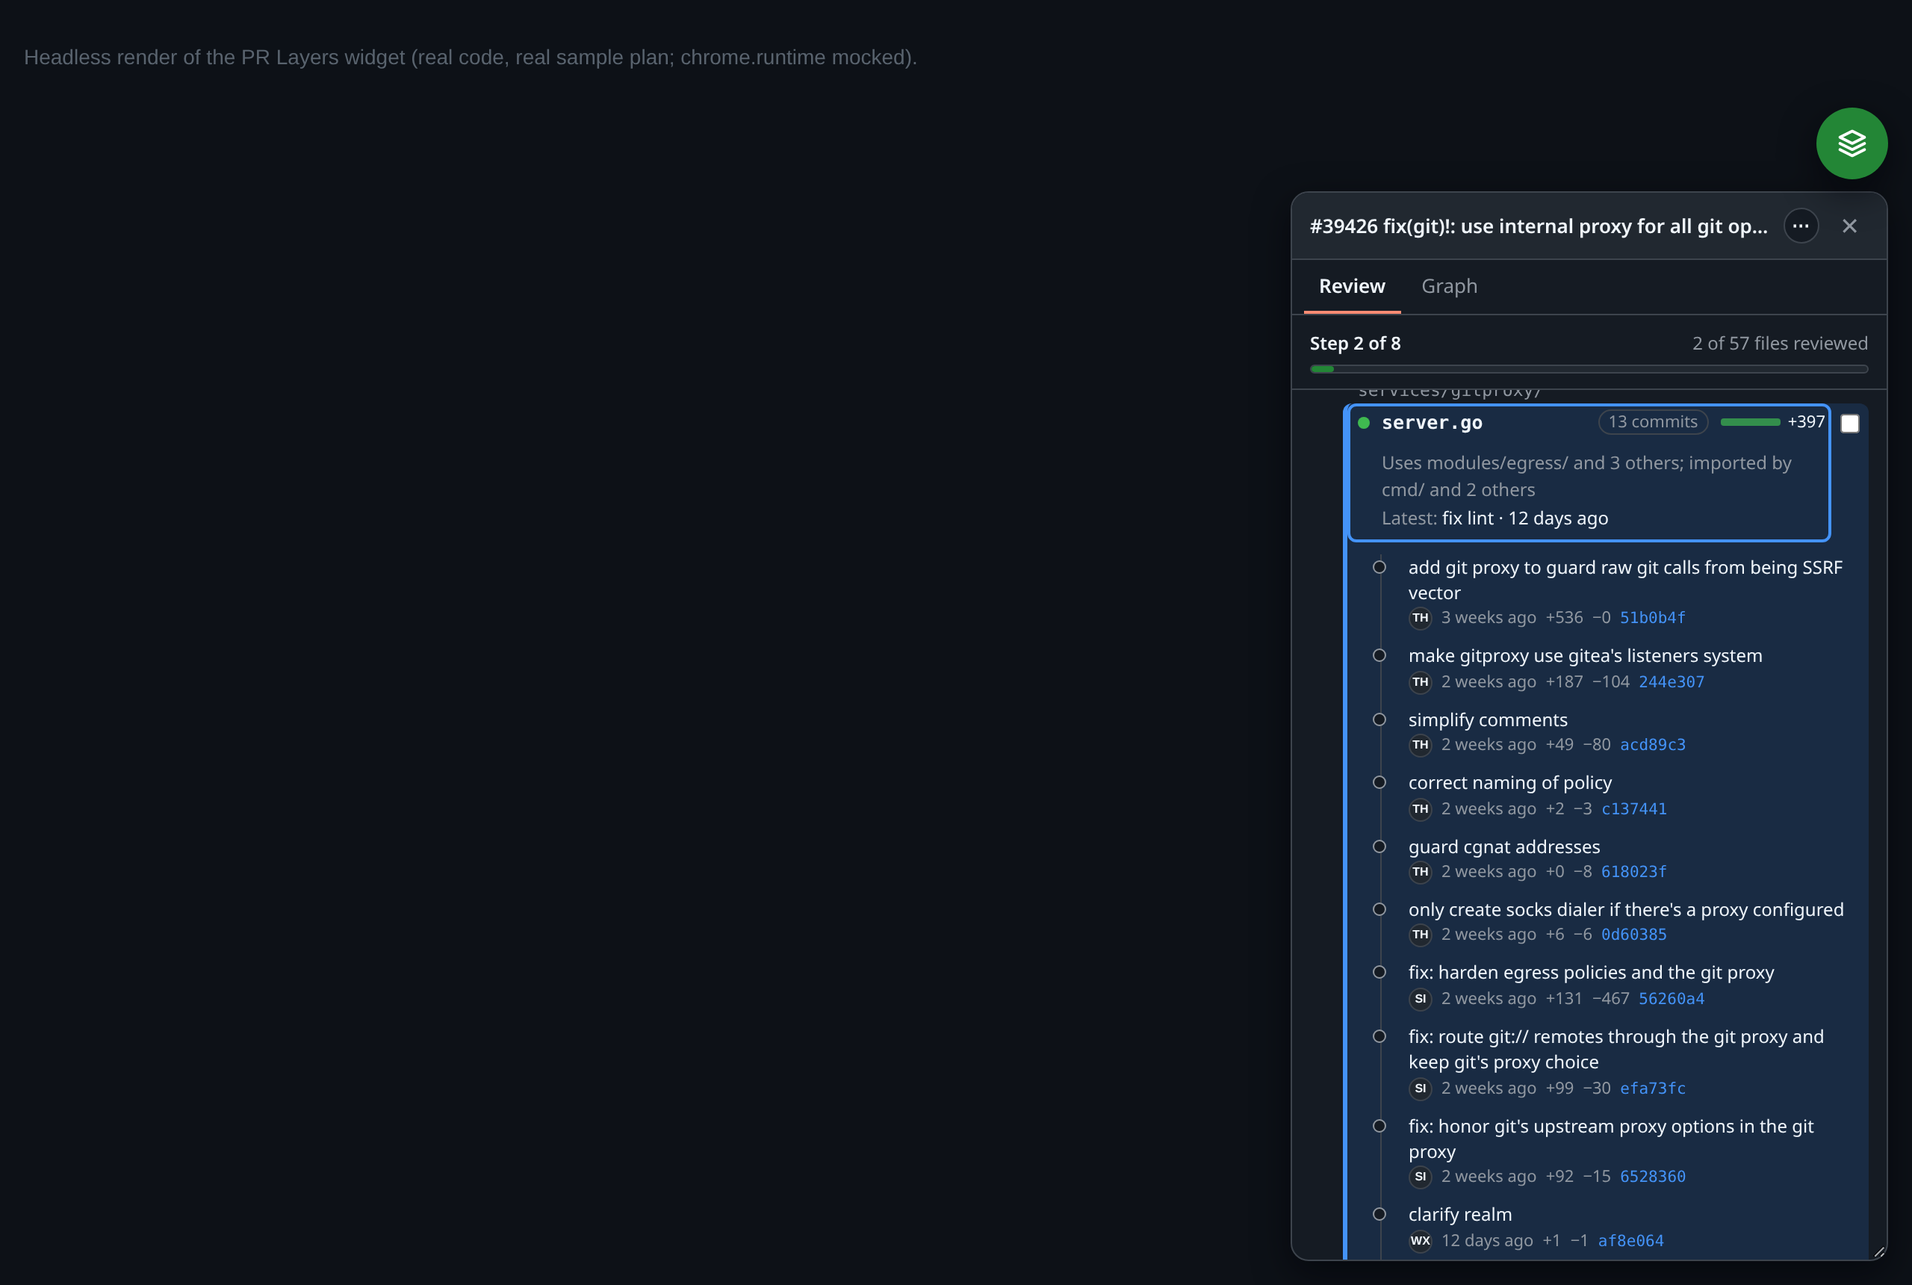
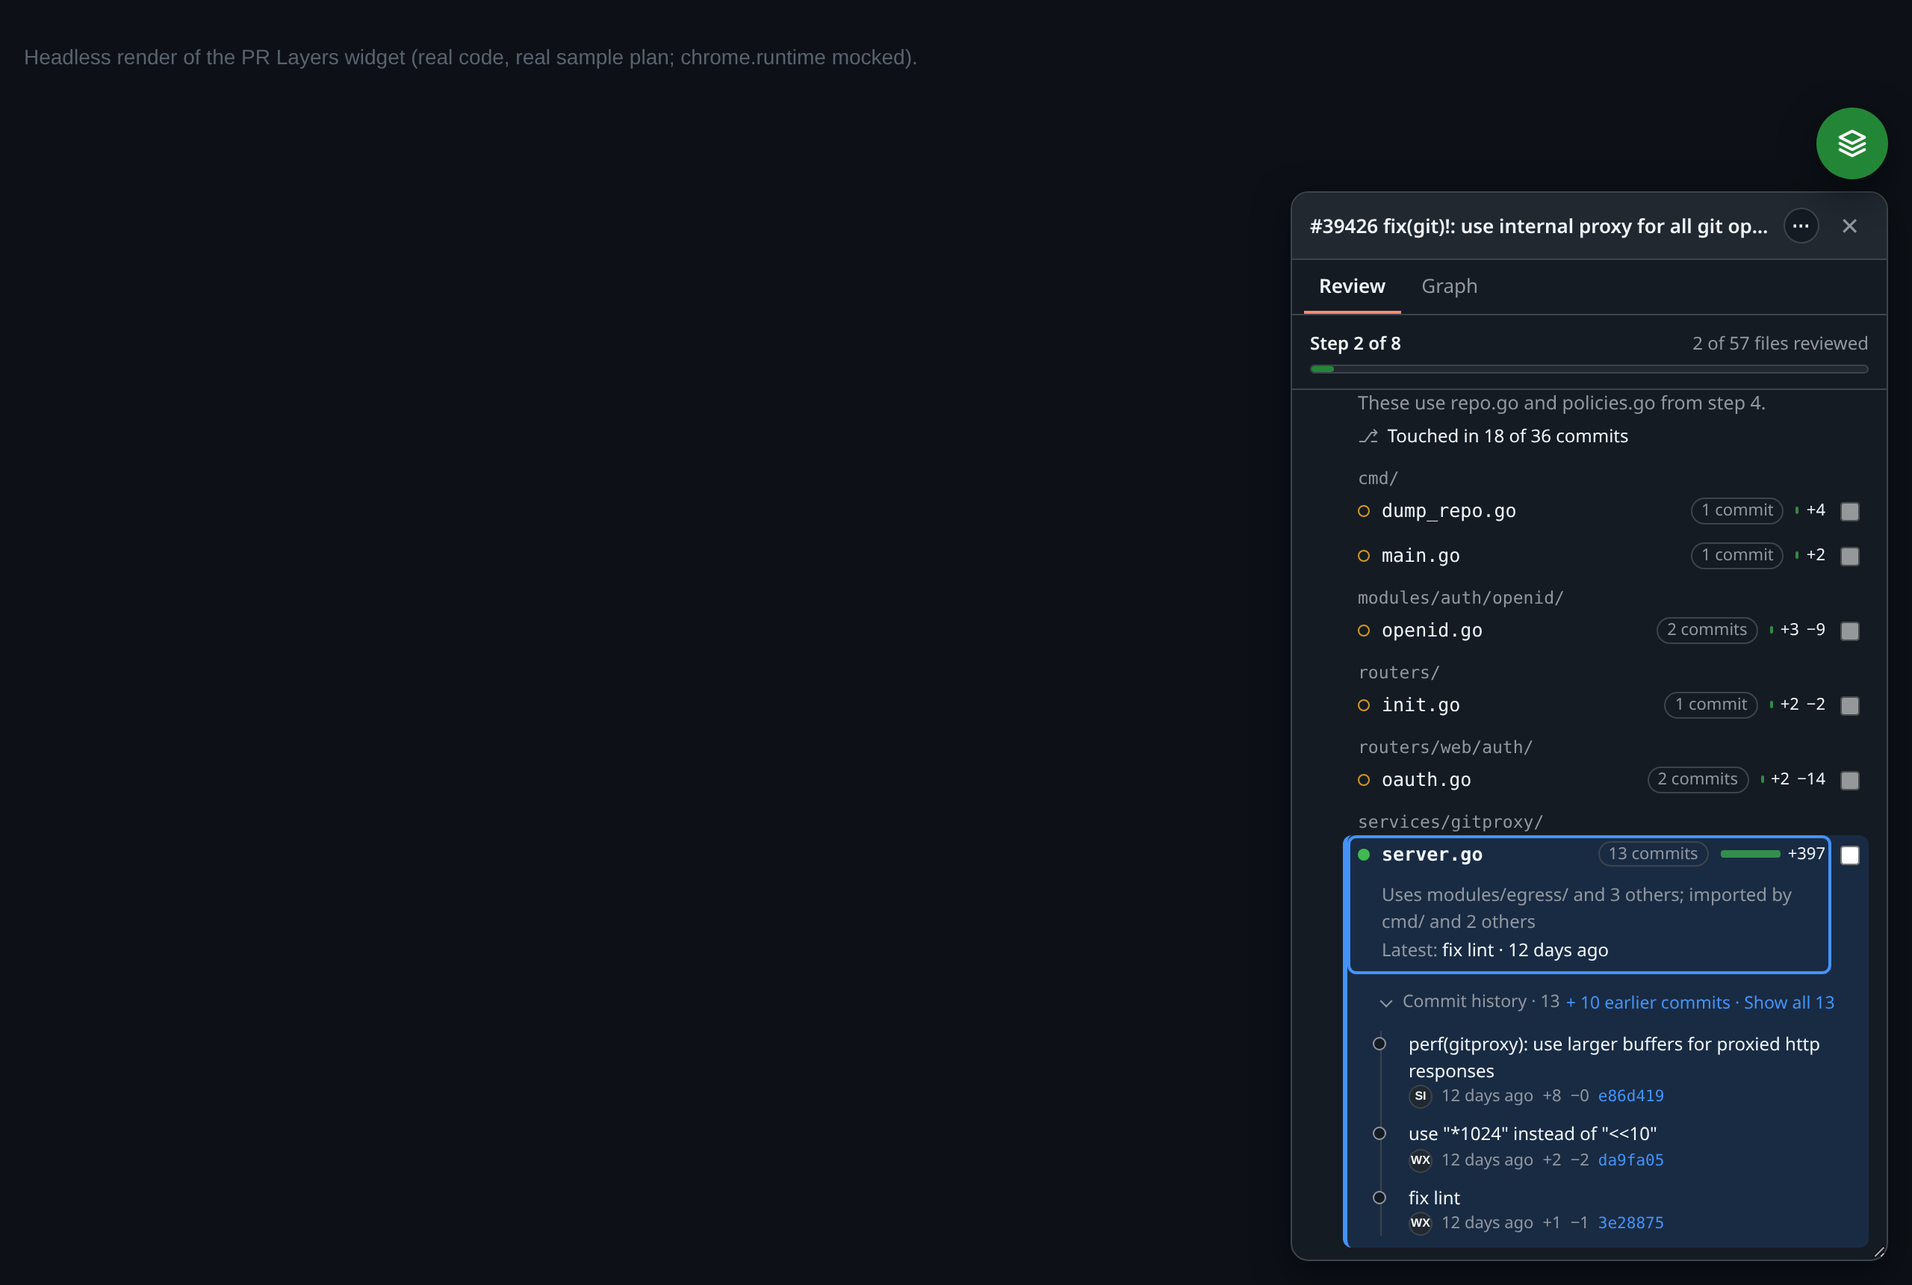
v0.5.2: collapsible commit timeline, latest 3 commits
- Selected file shows a 'Commit history · N' toggle (aria-expanded/controls),
  closed by default; Latest line stays visible. Expanded state is a global
  session pref (chrome.storage.session via the worker).
- Expanded shows the 3 most recent commits (oldest -> newest among them) with
  '+ K earlier commits · Show all N' / 'Show fewer' inline.
- Toggle never navigates; n/j/k keep working.
- Overflow check now covers collapsed, expanded and show-all states (36 cases).
- DOM tests, README, renders updated.

Changed region(s): [[0.6875, 0.3081, 1.0, 0.986]]

diff --git a/test/widget-dom.test.ts b/test/widget-dom.test.ts
@@ -483,6 +483,20 @@ describe("Widget (DOM)", () => {
     expect(s.querySelectorAll(".step.open .sdots i.on")).toHaveLength(3);
     expect(s.querySelector(".tl")).toBeNull(); // only for the selected file
     (a as HTMLButtonElement).click();
+    // collapsed by default: a toggle row, Latest stays visible, no commits listed
+    const tog = s.querySelector("li.file.sel .tltog") as HTMLButtonElement;
+    expect(tog.textContent).toContain("Commit history · 3");
+    expect(tog.getAttribute("aria-expanded")).toBe("false");
+    expect(tog.getAttribute("aria-controls")).toBe("prl-tl");
+    expect(s.querySelector("#prl-tl")!.hasAttribute("hidden")).toBe(true);
+    expect(s.querySelectorAll(".tl .tc")).toHaveLength(0);
+    expect(s.querySelector("li.file.sel .latest")).not.toBeNull();
+    const jumps = calls.filter((c) => c.type === "graph:jump").length;
+    tog.click();
+    expect(prefs.storyOpen).toBe(true);
+    expect(s.querySelector("li.file.sel .tltog")!.getAttribute("aria-expanded")).toBe("true");
+    expect(s.querySelector(".tlmore")).toBeNull(); // <= 3 commits: no show-all
+    expect(calls.filter((c) => c.type === "graph:jump").length).toBe(jumps);
     const items = [...s.querySelectorAll(".tl .tc")];
     expect(items.map((i) => i.querySelector(".tmsg")!.textContent)).toEqual(["feat: add a", "Address review comments", "refactor: rename"]);
     expect(items[2].classList.contains("newest")).toBe(true);
@@ -541,8 +555,50 @@ describe("Widget (DOM)", () => {
     w.loadDemo(false);
     expect(s.querySelector(".step.open .story")!.textContent).toMatch(/Touched in 1 of 5 commits/);
     w.select("tests/test_telemetry/test_runtime.py");
+    expect(s.querySelectorAll(".tl .tc")).toHaveLength(0); // collapsed by default
+    (s.querySelector("li.file.sel .tltog") as HTMLButtonElement).click();
     expect(s.querySelectorAll(".tl .tc")).toHaveLength(3);
     expect(calls.some((c) => c.type === "history:get")).toBe(false);
     replies["auth:status"] = () => ({ method: "pat", login: "yash" });
+  });
+
+  it("timeline: latest 3 by default when expanded, Show all / Show fewer inline, state kept across files, toggle doesn't navigate or break j/k/n", async () => {
+    const commits = Array.from({ length: 6 }, (_, i) => ({ sha: `sha${i}xxxxx`, message: `commit ${i}`, initials: "YV", date: `2026-10-0${i + 1}T00:00:00Z` }));
+    history = {
+      version: 1, totalCommits: 6, commits,
+      files: { "src/a.ts": commits.map((_, c) => ({ c, additions: 1, deletions: 0 })), "src/ui/b.ts": [{ c: 1, additions: 1, deletions: 0 }, { c: 5, additions: 1, deletions: 0 }], "src/ui/c.ts": [] },
+      notes: [],
+    };
+    prefs.storyOpen = true; // session pref: expanded
+    const w = new Widget();
+    await w.mount();
+    w.setPr({ owner: "o", repo: "r", number: 7 });
+    w.toggle("bubble");
+    const s = shadowOf();
+    await vi.waitFor(() => expect(s.querySelector(".fbtn .cm")).not.toBeNull());
+    w.select("src/a.ts");
+    const msgs = () => [...s.querySelectorAll(".tl .tc .tmsg")].map((m) => m.textContent);
+    expect(msgs()).toEqual(["commit 3", "commit 4", "commit 5"]);
+    expect(s.querySelector(".tl .tc.newest .tmsg")!.textContent).toBe("commit 5");
+    const more = s.querySelector(".tlmore") as HTMLButtonElement;
+    expect(more.textContent).toBe("+ 3 earlier commits · Show all 6");
+    more.click();
+    expect(msgs()).toEqual(["commit 0", "commit 1", "commit 2", "commit 3", "commit 4", "commit 5"]);
+    expect(s.querySelector(".tlmore")!.textContent).toBe("Show fewer");
+    (s.querySelector(".tlmore") as HTMLButtonElement).click();
+    expect(msgs()).toHaveLength(3);
+    // Enter/Space on the toggle are plain button activations; n/j/k still work from it
+    const tog = s.querySelector("li.file.sel .tltog") as HTMLButtonElement;
+    tog.focus();
+    tog.dispatchEvent(new KeyboardEvent("keydown", { key: "j", bubbles: true, composed: true }));
+    expect(s.querySelector('.fbtn[aria-current="true"]')!.getAttribute("data-path")).toBe("src/ui/b.ts");
+    // still expanded on the next file (global pref), showing its 2 commits without show-all
+    expect(s.querySelector("li.file.sel .tltog")!.getAttribute("aria-expanded")).toBe("true");
+    expect(msgs()).toEqual(["commit 1", "commit 5"]);
+    expect(s.querySelector(".tlmore")).toBeNull();
+    (s.querySelector("li.file.sel .tltog") as HTMLButtonElement).click();
+    expect(prefs.storyOpen).toBe(false);
+    expect(s.querySelectorAll(".tl .tc")).toHaveLength(0);
+    history = ONE;
   });
 });

diff --git a/src/content/review-view.ts b/src/content/review-view.ts
@@ -15,6 +15,12 @@ export interface ReviewHandlers {
   /** Link for a commit on github.com. */
   commitUrl?: (sha: string) => string;
   now?: number;
+  /** Selected file's commit timeline expanded (session pref, default closed). */
+  storyOpen?: boolean;
+  /** Show all of the selected file's commits instead of the latest 3. */
+  storyAll?: boolean;
+  onToggleStory?(open: boolean): void;
+  onToggleStoryAll?(all: boolean): void;
   onSelect(path: string): void;
   onToggleFile(file: LayerFile, reviewed: boolean): void;
   onToggleStep(layer: Layer, reviewed: boolean): void;
@@ -63,11 +69,43 @@ function stepStory(hist: CommitHistory, paths: string[]): HTMLElement {
   return line;
 }
 
-/** Mini timeline of one file's commits, oldest -> newest. */
+/** Commits shown in the timeline before "Show all". */
+export const TIMELINE_LIMIT = 3;
+
+/** Collapsible mini timeline of one file's commits, oldest -> newest (latest 3 unless "Show all"). */
 function timeline(hist: CommitHistory, f: LayerFile & { name: string }, h: ReviewHandlers): HTMLElement {
   const story = fileStory(hist, f.path);
-  const ol = el("ol", { class: "tl", "aria-label": `Commits that changed ${f.name}, oldest first` });
-  for (const t of story.touches) {
+  const n = story.touches.length;
+  const open = !!h.storyOpen;
+  const toggle = el(
+    "button",
+    { class: "tltog", type: "button", "aria-expanded": String(open), "aria-controls": "prl-tl", title: open ? "Hide commit history" : "Show commit history" },
+    el("span", { class: "tlchev", "aria-hidden": "true" }),
+    `Commit history · ${n}`,
+  );
+  toggle.addEventListener("click", (e) => {
+    e.stopPropagation();
+    h.onToggleStory?.(!open);
+  });
+  const wrap = el("div", { class: "tlwrap" + (open ? " open" : "") }, toggle);
+  const ol = el("ol", { class: "tl", id: "prl-tl", "aria-label": `Commits that changed ${f.name}, oldest first` });
+  if (!open) {
+    ol.hidden = true;
+    wrap.append(ol);
+    return wrap;
+  }
+  const all = !!h.storyAll || n <= TIMELINE_LIMIT;
+  const shown = all ? story.touches : story.touches.slice(n - TIMELINE_LIMIT);
+  if (n > TIMELINE_LIMIT) {
+    const k = n - TIMELINE_LIMIT;
+    const more = el("button", { class: "tlmore", type: "button", "aria-controls": "prl-tl", "aria-expanded": String(all) }, all ? "Show fewer" : `+ ${k} earlier commit${k === 1 ? "" : "s"} · Show all ${n}`);
+    more.addEventListener("click", (e) => {
+      e.stopPropagation();
+      h.onToggleStoryAll?.(!all);
+    });
+    wrap.append(more);
+  }
+  for (const t of shown) {
     const c = t.commit;
     const who = c.name ?? c.login ?? "unknown author";
     const meta = el(
@@ -85,7 +123,8 @@ function timeline(hist: CommitHistory, f: LayerFile & { name: string }, h: Revie
     if (t.as) meta.append(chip(`as ${t.as.slice(t.as.lastIndexOf("/") + 1)}`, `This file was ${t.as} in this commit`, "plain"));
     ol.append(el("li", { class: "tc" + (t.newest ? " newest" : "") }, el("div", { class: "tmsg", title: c.message }, c.message), meta));
   }
-  return el("div", { class: "tlwrap" }, ol);
+  wrap.append(ol);
+  return wrap;
 }
 
 export function renderReview(plan: LayerPlan, state: ReviewState, h: ReviewHandlers): HTMLElement {

diff --git a/src/content/widget.ts b/src/content/widget.ts
@@ -101,6 +101,9 @@ export class Widget {
   private history: CommitHistory | null = null;
   private historyKey = "";
   private historyNote: string | null = null;
+  /** Timeline expanded (session pref, default closed) / showing all commits (this selection only). */
+  private storyOpen = false;
+  private storyAll = false;
   private demo = false;
   private auth: AuthStatus | null = null;
   private busy = false;
@@ -510,6 +513,19 @@ export class Widget {
         selected: this.selected,
         unsynced: this.unsynced,
         history: this.history,
+        storyOpen: this.storyOpen,
+        storyAll: this.storyAll,
+        onToggleStory: (open) => {
+          this.storyOpen = open;
+          void setPref("storyOpen", open);
+          this.renderAll();
+          this.focusIn("li.file.sel .tltog");
+        },
+        onToggleStoryAll: (all) => {
+          this.storyAll = all;
+          this.renderAll();
+          this.focusIn("li.file.sel .tlmore");
+        },
         commitUrl: (sha) => `https://github.com/${res.pr.owner}/${res.pr.repo}/pull/${res.pr.number}/commits/${sha}`,
         onSelect: (p) => this.select(p),
         onToggleFile: (f, on) => this.setFileReviewed(f, on),
@@ -578,6 +594,7 @@ export class Widget {
     if (!res) return;
     const at = locate(res.plan, path);
     if (!at) return;
+    if (this.selected !== path) this.storyAll = false;
     this.selected = path;
     this.openSteps.add(res.plan.layers[at.layer].id);
     this.renderAll();
@@ -638,6 +655,7 @@ export class Widget {
 
   private async loadSyncPref() {
     this.syncOn = (await getPref<boolean>("syncViewed")) === true;
+    this.storyOpen = (await getPref<boolean>("storyOpen").catch(() => null)) === true;
     if (!this.syncOn && this.unsynced.size) {
       this.unsynced.clear();
       this.renderAll();

diff --git a/src/background/sw.ts b/src/background/sw.ts
@@ -2,7 +2,10 @@ import config from "../../config/extension.config.json";
 import { analyze, ENGINE_VERSION, filesNeedingContents } from "../engine/analyze";
 import type { LayerPlan, PRFile } from "../engine/types";
 import type { AnalyzeResult, PRMeta, PRRef, Request, Response, TabMessage } from "../shared/messages";
-import { isAllowedSender, PREF_KEYS } from "../shared/messages";
+import { isAllowedSender, PREF_KEYS, SESSION_PREF_KEYS } from "../shared/messages";
+
+/** Session-scoped prefs (e.g. timeline expanded) live in storage.session; the rest in storage.local. */
+const prefArea = (key: string): chrome.storage.StorageArea => (SESSION_PREF_KEYS.includes(key) && chrome.storage.session ? chrome.storage.session : chrome.storage.local);
 import { diffAnchor } from "../shared/pr-url";
 import { parsePrUrl } from "../shared/pr-url";
 import { clearToken, getStatus, getToken, saveToken, validateToken } from "./auth";
@@ -211,11 +214,11 @@ async function handle(msg: Request, sender: chrome.runtime.MessageSender): Promi
     case "prefs:get": {
       if (!PREF_KEYS.includes(msg.key)) throw new Error("Unknown preference");
       const k = `pref.${msg.key}`;
-      return (await chrome.storage.local.get(k))[k] ?? null;
+      return (await prefArea(msg.key).get(k))[k] ?? null;
     }
     case "prefs:set":
       if (!PREF_KEYS.includes(msg.key)) throw new Error("Unknown preference");
-      await chrome.storage.local.set({ [`pref.${msg.key}`]: msg.value });
+      await prefArea(msg.key).set({ [`pref.${msg.key}`]: msg.value });
       return true;
     case "history:get": {
       const key = `history:${HISTORY_VERSION}:${analysisKey(msg.pr.owner, msg.pr.repo, msg.pr.number, msg.headSha)}`;

diff --git a/src/content/widget.css.ts b/src/content/widget.css.ts
@@ -162,4 +162,14 @@ ol.steps, .step, .sbody, ul.files, .fbtn, .reason, .tlwrap, ol.tl, .tc, .tm, .sf
 .sfoot .hint { max-width:100%; }
 .story { overflow-wrap:anywhere; }
 .sdots { flex-wrap:wrap; max-width:100%; }
+
+/* ---- v0.5.2 collapsible timeline ---- */
+.tltog, .tlmore { display:inline-flex; align-items:center; gap:5px; max-width:100%; border:none; background:transparent; color:var(--muted); font:inherit; font-size:11.5px; padding:2px 4px; margin:0 0 0 -4px; border-radius:4px; cursor:pointer; text-align:left; overflow-wrap:anywhere; }
+.tltog:hover, .tlmore:hover { color:var(--fg); background:var(--bg2); }
+.tltog:focus-visible, .tlmore:focus-visible { outline:2px solid var(--accent); outline-offset:0; }
+.tltog .tlchev { flex:none; display:inline-block; width:6px; height:6px; margin:0 3px 0 1px; border-right:1.5px solid currentColor; border-bottom:1.5px solid currentColor; transform:rotate(-45deg); transition:transform .12s ease; }
+.tlwrap.open .tltog .tlchev { transform:translateY(-2px) rotate(45deg); }
+.tlmore { color:var(--accent); margin:2px 0 4px -4px; }
+.tlwrap.open ol.tl { margin-top:4px; }
+@media (prefers-reduced-motion: reduce) { .tltog .tlchev { transition:none; } }
 `;

diff --git a/test/overflow.test.ts b/test/overflow.test.ts
@@ -19,10 +19,10 @@ describe("panel never overflows horizontally (v0.5.1 regression)", () => {
   it.skipIf(!existsSync(CHROME))(
     "headless Chrome: scrollWidth <= clientWidth and every element inside the panel, with very long commit messages and file names, at 288/400/640px",
     () => {
-      const out = execFileSync("node", ["scripts/dev/check-overflow.mjs"], { encoding: "utf8", timeout: 110_000 });
+      const out = execFileSync("node", ["scripts/dev/check-overflow.mjs"], { encoding: "utf8", timeout: 230_000 });
       expect(out).toContain("no horizontal overflow");
       expect(out).not.toContain("FAIL");
     },
-    120_000,
+    240_000,
   );
 });

diff --git a/src/shared/messages.ts b/src/shared/messages.ts
@@ -47,7 +47,9 @@ export type Request =
   | { type: "cache:clear" };
 
 /** Widget preferences content scripts may read/write (nothing sensitive). */
-export const PREF_KEYS = ["view", "tourDone", "syncViewed"] as const;
+export const PREF_KEYS = ["view", "tourDone", "syncViewed", "storyOpen"] as const;
+/** Preferences kept only for the browser session (chrome.storage.session). */
+export const SESSION_PREF_KEYS: readonly string[] = ["storyOpen"];
 export type PrefKey = (typeof PREF_KEYS)[number];
 
 export type Response<T = unknown> = { ok: true; data: T } | { ok: false; error: string; code?: string };

diff --git a/src/dev/harness.ts b/src/dev/harness.ts
@@ -5,7 +5,7 @@ export {};
  */
 const params = new URLSearchParams(location.search);
 const planUrl = params.get("plan");
-const prefs: Record<string, unknown> = { tourDone: params.get("tour") !== "1" };
+const prefs: Record<string, unknown> = { tourDone: params.get("tour") !== "1", storyOpen: params.get("story") === "1" };
 const origAttach = HTMLElement.prototype.attachShadow;
 HTMLElement.prototype.attachShadow = function (init) {
   const s = origAttach.call(this, init);

diff --git a/README.md b/README.md
@@ -93,7 +93,7 @@ The Review tab is a **checklist of numbered steps** in reading order. At the top
 Once the plan is on screen, PR Layers loads the PR's commit history in the background and shows how each file got to its final state:
 
 - **File rows** get a small **N commits** chip (how many of the PR's commits changed that file). Hover, focus or select a file to see **Latest: <message> · <relative time>** under its reason.
-- **The selected file** gets a mini timeline of its commits, oldest → newest: one-line message, author initials (full name on hover), relative time, that commit's +/− for this file, and the short SHA, which links to the commit on github.com. The PR's newest commit is tagged **newest**. If the file had another name in an older commit (renamed later), that entry says *as old_name*.
+- **The selected file** gets a **Commit history · N** toggle, closed by default (the *Latest* line stays visible). Click it, or press Enter/Space on it, to expand. The expanded/collapsed choice applies to every file and lasts for the browser session (`chrome.storage.session`). Expanded, it shows the **3 most recent** commits (still oldest → newest), plus **+ K earlier commits · Show all N** to reveal the rest inline and **Show fewer** to go back; files with 3 or fewer commits have no show-all link. The toggle never jumps to the file, and n / j / k keep working. Each entry is a mini timeline row, one-line message, author initials (full name on hover), relative time, that commit's +/− for this file, and the short SHA, which links to the commit on github.com. The PR's newest commit is tagged **newest**. If the file had another name in an older commit (renamed later), that entry says *as old_name*.
 - **Each open step** shows **Touched in X of Y commits** with one dot per commit (filled = this step's files changed in it; hover a dot for the message).
 - **Signals:** **After review** when a commit that changed the file has a message that looks like a review follow-up (`fixup!`, `squash!`, `address(ed) (review) comments`, `review feedback`, `PR feedback`, `nit`, case-insensitive). **Late change** when the file changed only in the PR's newest commit. Both are hints from commit messages and order, not facts about the review.
 - **Single-commit PRs** hide all of this. **Merge commits** (e.g. merging the base branch in) count toward the total but not as changing files, since their diff is mostly the base branch's.
@@ -108,9 +108,9 @@ How it's fetched (read-only `GET`s only, cached in IndexedDB by owner/repo/numbe
 
 ![Review tab in demo mode (fastapi/fastapi#16403): steps 1–3 done, step 4 "Now the tests" open with "Touched in 3 of 5 commits", each file showing its commit count, and test_runtime.py selected with its 3-commit timeline. Headless render of the real widget code with the bundled sample data](docs/images/review-demo.png)
 
-Long commit messages wrap to at most two lines (full message on hover), the *Latest* line and file names truncate with an ellipsis (full text on hover), and nothing in the panel scrolls sideways at any panel width. `node scripts/dev/check-overflow.mjs` checks that in headless Chrome with real long messages and a stress case; it runs as part of `npm test` when Chrome is available.
+Long commit messages wrap to at most two lines (full message on hover), the *Latest* line and file names truncate with an ellipsis (full text on hover), and nothing in the panel scrolls sideways at any panel width. `node scripts/dev/check-overflow.mjs` checks that in headless Chrome with real long messages and a stress case, with the timeline collapsed, expanded (3) and fully shown; it runs as part of `npm test` when Chrome is available.
 
-![Commit story with long real commit messages: go-gitea/gitea#39426 (40 commits), services/gitproxy/server.go selected with its 13-commit timeline. Headless render of the real widget code](docs/images/commit-story.png)
+![Commit story with long real commit messages: go-gitea/gitea#39426 (40 commits), services/gitproxy/server.go selected with its timeline expanded: the latest 3 of 13 commits plus "+ 10 earlier commits · Show all 13". Headless render of the real widget code](docs/images/commit-story.png)
 
 Dark: [docs/images/commit-story-dark.png](docs/images/commit-story-dark.png).
 
